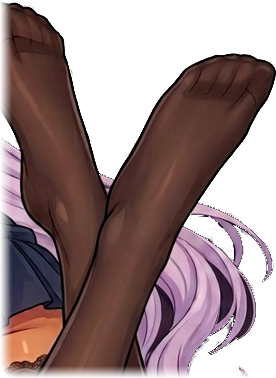
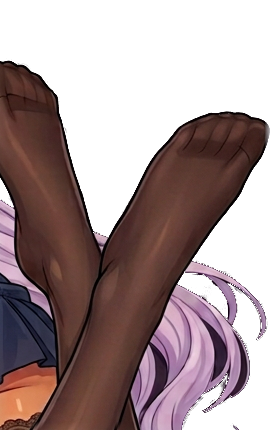
BLOCK I: kill leg-kick ghosting for real — swap region instead of overlay
Root cause: the kick was an overlay patch ABOVE the base plate, so the
vacated base shins stayed visible through the patch's transparent
pixels — permanent double contours, not a crossfade artifact.

Now the shins are a true SWAP region: the base plate gets a hard hole
(540,233 280x430 on the cutout grid) and two full frames (A = base
shins, B = leaned-back shins) cross-exchange alphas.  Exactly one
crisp opaque frame shows during each hold; the blend lasts only 140ms.
Frame B's 8px border band is blended into frame A pixels, so the hole
edge is byte-identical in both frames (seam diff = 0).
tsc clean, tests 72/72, live DPR3 QA: both hold frames crisp.

diff --git a/src/heroine/carpet/CarpetHeroine.ts b/src/heroine/carpet/CarpetHeroine.ts
@@ -2,6 +2,7 @@ import { Assets, Container, Graphics, Sprite, Texture } from "pixi.js";
 import carpetBlinkUrl from "../../assets/environment/carpet-blink.png?url";
 import carpetBlushUrl from "../../assets/environment/carpet-blush.png?url";
 import carpetHeroineUrl from "../../assets/environment/carpet-heroine.webp?url";
+import carpetLegsAUrl from "../../assets/environment/carpet-legs-a.png?url";
 import carpetLegsUrl from "../../assets/environment/carpet-legs.png?url";
 import carpetPageUrl from "../../assets/environment/carpet-page.png?url";
 import carpetStockingUrl from "../../assets/environment/carpet-stocking.png?url";
@@ -57,6 +58,9 @@ export class CarpetHeroine extends Container {
   private readonly art = new Sprite(Texture.EMPTY);
   private readonly blushPatch = new Sprite(Texture.EMPTY);
   private readonly blinkPatch = new Sprite(Texture.EMPTY);
+  /** Swap frame A: the base crossed shins (fills the base plate hole). */
+  private readonly legsFrameA = new Sprite(Texture.EMPTY);
+  /** Swap frame B: the shins leaned back — the kick frame. */
   private readonly legsPatch = new Sprite(Texture.EMPTY);
   private readonly stockingPatch = new Sprite(Texture.EMPTY);
   private readonly pagePatch = new Sprite(Texture.EMPTY);
@@ -83,6 +87,7 @@ export class CarpetHeroine extends Container {
     for (const [patch, place] of [
       [this.blushPatch, CARPET_PATCHES.blush],
       [this.blinkPatch, CARPET_PATCHES.blink],
+      [this.legsFrameA, CARPET_PATCHES.legs],
       [this.legsPatch, CARPET_PATCHES.legs],
       [this.stockingPatch, CARPET_PATCHES.stocking],
       [this.pagePatch, CARPET_PATCHES.page],
@@ -91,6 +96,7 @@ export class CarpetHeroine extends Container {
       patch.position.set(place.x, place.y);
       patch.alpha = 0;
     }
+    this.legsFrameA.alpha = 1;
     this.artRoot.pivot.set(CARPET_ART_W / 2, CARPET_ART_H / 2);
     this.shadowLayer.eventMode = "none";
     // Blink sits ABOVE blush so the closed-eyes plate wins over the blush
@@ -101,9 +107,10 @@ export class CarpetHeroine extends Container {
     this.artRoot.addChild(
       this.shadowLayer,
       this.art,
+      this.legsFrameA,
+      this.legsPatch,
       this.blushPatch,
       this.blinkPatch,
-      this.legsPatch,
       this.stockingPatch,
       this.pagePatch,
       this.hitLayer,
@@ -114,11 +121,12 @@ export class CarpetHeroine extends Container {
 
   /** Loads all plates; safe to call once from the scene constructor. */
   async load(): Promise<void> {
-    const [art, blink, blush, legs, stocking, page, shadow] =
+    const [art, blink, blush, legsA, legs, stocking, page, shadow] =
       await Promise.all([
         Assets.load<Texture>(carpetHeroineUrl),
         Assets.load<Texture>(carpetBlinkUrl),
         Assets.load<Texture>(carpetBlushUrl),
+        Assets.load<Texture>(carpetLegsAUrl),
         Assets.load<Texture>(carpetLegsUrl),
         Assets.load<Texture>(carpetStockingUrl),
         Assets.load<Texture>(carpetPageUrl),
@@ -127,6 +135,7 @@ export class CarpetHeroine extends Container {
     this.art.texture = art;
     this.blinkPatch.texture = blink;
     this.blushPatch.texture = blush;
+    this.legsFrameA.texture = legsA;
     this.legsPatch.texture = legs;
     this.stockingPatch.texture = stocking;
     this.pagePatch.texture = page;
@@ -175,7 +184,12 @@ export class CarpetHeroine extends Container {
     // height dips, as the ribcage presses into the floor.
     this.artRoot.scale.set(1 + lift * 0.4, 1 - lift);
 
-    this.legsPatch.alpha = carpetLegSwingAt(t);
+    // Swap region: the two shin frames cross-exchange alphas, so one
+    // crisp frame is always fully visible (the base plate has a hole
+    // here — no vacated shins can ghost through from below).
+    const swing = carpetLegSwingAt(t);
+    this.legsPatch.alpha = swing;
+    this.legsFrameA.alpha = 1 - swing;
     this.blinkPatch.alpha = blinkOverlayAt(t).weight;
     this.blushPatch.alpha = carpetEnvelopeAt(
       t - this.blushPulseAt,

diff --git a/src/heroine/carpet/carpetScene.ts b/src/heroine/carpet/carpetScene.ts
@@ -43,8 +43,16 @@ export const CARPET_PATCHES = {
   blink: { x: 156, y: 115 },
   /** Deep embarrassed flush with the flustered open smile. */
   blush: { x: 170, y: 119 },
-  /** Raised crossed shins leaned a few degrees back — sway frame B. */
-  legs: { x: 534, y: 291 },
+  /**
+   * Raised crossed shins window.  Unlike the other overlays this is a
+   * SWAP region: the base plate has a hard hole here and two full
+   * frames (A = base shins, B = leaned-back shins) cross-exchange
+   * alphas — so exactly one crisp frame shows at any moment and the
+   * vacated base shins can never ghost through.  Frame B's 8px border
+   * band is blended into frame A pixels, so the hole edge is seamless
+   * in both frames.
+   */
+  legs: { x: 540, y: 233 },
   /** The rolled stocking ring slid further down the bare calf. */
   stocking: { x: 523, y: 707 },
   /** One paper page caught mid-turn, curling above the open book. */
@@ -89,7 +97,7 @@ export const CARPET_MOTION = {
    * instead each frame HOLDS crisp and the blend lasts only this long —
    * a lively kick-pause-kick rhythm.
    */
-  legSwingTransitionMs: 340,
+  legSwingTransitionMs: 140,
   /** Damped squash of one tap reaction (she presses into the floor). */
   pulseMs: 640,
   pulseScale: 0.009,

diff --git a/tests/carpetScene.test.ts b/tests/carpetScene.test.ts
@@ -163,7 +163,9 @@ test("CARPET SCENE: the crossed shins kick without ghosting", () => {
   for (let t = 16; t <= period * 2; t += 16) {
     const v = carpetLegSwingAt(t);
     assert.ok(v >= 0 && v <= 1, `swing ${v} out of range`);
-    assert.ok(Math.abs(v - prev) < 0.12, `swing pops at ${t}ms`);
+    // 16ms of a 140ms smoothstep moves at most ~17% — continuous, just
+    // snappy.  A worse jump would be a visible pop.
+    assert.ok(Math.abs(v - prev) < 0.2, `swing pops at ${t}ms`);
     if (v > 0.02 && v < 0.98) mixedMs += 16;
     prev = v;
   }
